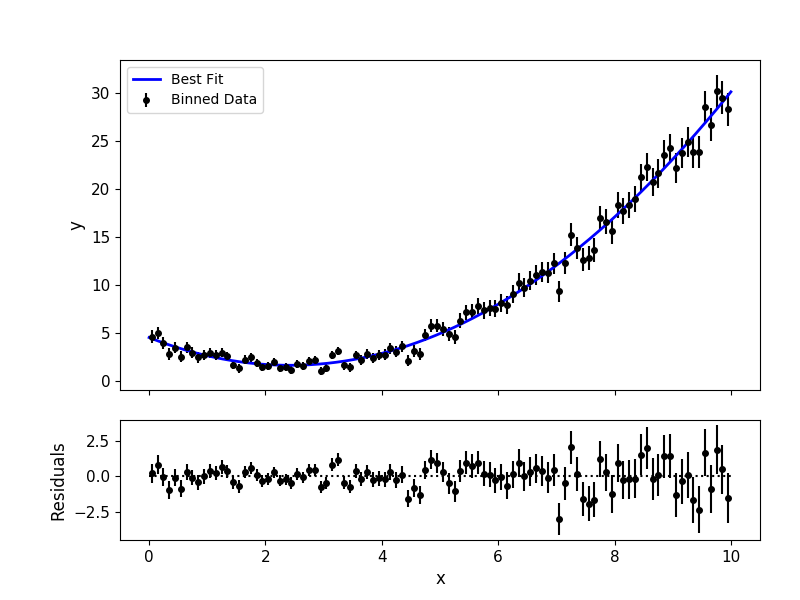
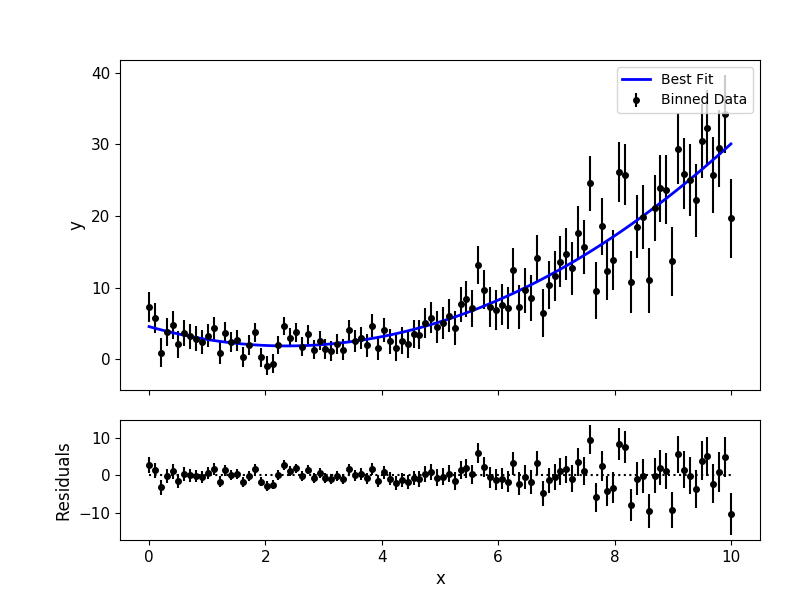
Modified mc3.fit() to clarify that it optimizes the a-posteriori statistics rather than chi-square.  Made it very clear what quantity is being calculated.  Renamed outputs from chisq to best_log_post, and also added its corresponding best_chisq.  Reworded docs accordingly and added examples.

diff --git a/mc3/fit_driver.py b/mc3/fit_driver.py
@@ -13,21 +13,27 @@ from . import utils as mu
 def fit(data, uncert, func, params, indparams=[],
         pstep=None, pmin=None, pmax=None,
         prior=None, priorlow=None, priorup=None, leastsq='lm'):
-  """
-  Find the best fitting params values using the Levenberg-Marquardt
-  algorithm (wrapper of scipy.optimize.leastsq) considering shared and
-  fixed parameters, and parameter Gaussian priors.
+  r"""
+  Find the best-fitting params values to the dataset by performing a
+  Maximum-A-Posteriori optimization.
 
-  This code minimizes the chi-square statistics:
-    chisq = sum_i ((data[i]   - model[i])/uncert[i]     )**2.0 +
-            sum_j ((params[j] - prior[j])/prioruncert[j])**2.0
+  This is achieved by minimizing the negative-log posterior:
+  log_post = -2*log(posterior)
+           = -2*log(likelihood) - 2*log(prior)
+           = chi-squared + log_prior
+           = sum_i ((data[i] - model[i])/uncert[i])**2 + log_prior
+
+  where we define log_prior as the negative-log of the prior
+  (plus a constant, neglected since it does not affect the optimization):
+    For a uniform prior:   log_prior = 0.0
+    For a Gaussian prior:  log_prior = sum ((params - prior)/prior_uncert)**2
 
   Parameters
   ----------
   data: 1D ndarray
-      Dependent data fitted by func.
+      Data fitted by func.
   uncert: 1D ndarray
-      1-sigma uncertainty of data.
+      1-sigma uncertainties of data.
   func: callable
       The fitting function to model the data. It must be callable as:
       model = func(params, *indparams)
@@ -36,25 +42,26 @@ def fit(data, uncert, func, params, indparams=[],
   indparams: tuple
       Additional arguments required by func (if required).
   pstep: 1D ndarray
-      Parameters' jump scale (same size as params).
-      If the pstep is positive, the parameter is free for fitting.
-      If the pstep is 0, keep the parameter value fixed.
-      If the pstep is a negative integer, copy (share) the parameter value
-      from params[np.abs(pstep)+1], which can be free or fixed.
+      Parameters fitting behavior.
+      If pstep is positive, the parameter is free for fitting.
+      If pstep is zero, keep the parameter value fixed.
+      If pstep is a negative integer, copy the value from
+          params[np.abs(pstep)+1].
   pmin: 1D ndarray
-      Model parameters' lower boundaries (same size as params).
-      Default -np.inf.
+      Model parameters' lower boundaries.  Default -np.inf.
+      Only for leastsq='trf', since 'lm' does not handle bounds.
   pmax: 1D ndarray
-      Model parameters' upper boundaries (same size as params).
-      Default +np.inf.
+      Model parameters' upper boundaries.  Default +np.inf.
+      Only for leastsq='trf', since 'lm' does not handle bounds.
   prior: 1D ndarray
-      Model parameters' (Gaussian) prior values (same size as params).
-      Considered only when priolow != 0.  priorlow and priorup are the
-      lower and upper 1-sigma width of the Gaussian prior, respectively.
+      Parameters priors.  The type of prior is determined by priorlow
+      and priorup:
+          Gaussian: if both priorlow>0 and priorup>0
+          Uniform:  else
   priorlow: 1D ndarray
-      Parameters' lower 1-sigma Gaussian prior (same size as params).
+      Parameters' lower 1-sigma Gaussian prior.
   priorup: 1D ndarray
-      Paraneters' upper 1-sigma Gaussian prior (same size as params).
+      Paraneters' upper 1-sigma Gaussian prior.
   leastsq: String
       Optimization algorithm:
       If 'lm': use the Levenberg-Marquardt algorithm
@@ -64,10 +71,49 @@ def fit(data, uncert, func, params, indparams=[],
   -------
   mc3_output: Dict
       A dictionary containing the fit outputs, including:
-      - chisq: Lowest chi-square value found by the optimizer.
-      - bestp: Model parameters for the lowest chi-square value.
-      - best_model: Model evaluated at for bestp.
-      - optimizer_res: The output from the scipy optimizer.
+      - best_log_post: optimal negative-log of the posterior (as defined above).
+      - best_chisq: chi-square for the found best_log_post.
+      - best_model: model evaluated at bestp.
+      - bestp: Model parameters for the optimal best_log_post.
+      - optimizer_res: the output from the scipy optimizer.
+
+  Examples
+  --------
+  >>> import mc3
+  >>> import numpy as np
+
+  >>> def quad(p, x):
+  >>>     '''Quadratic polynomial: y(x) = p0 + p1*x + p2*x^2'''
+  >>>     return p[0] + p[1]*x + p[2]*x**2.0
+
+  >>> # Preamble, create a noisy synthetic dataset:
+  >>> np.random.seed(10)
+  >>> x = np.linspace(0, 10, 100)
+  >>> p_true = [4.5, -2.4, 0.5]
+  >>> y = quad(p_true, x)
+  >>> uncert = np.sqrt(np.abs(y))
+  >>> data = y + np.random.normal(0, uncert)
+
+  >>> # Initial guess for fitting parameters:
+  >>> params = np.array([ 3.0, -2.0,  0.1])
+
+  >>> # Fit data:
+  >>> output = mc3.fit(data, uncert, quad, params, indparams=[x])
+  >>> print(output['bestp'], output['best_chisq'], output['best_log_post'], sep='\n')
+  [ 4.57471072 -2.28357843  0.48341911]
+  92.79923183159411
+  92.79923183159411
+
+  >>> # Fit with priors (Gaussian, uniform, uniform):
+  >>> prior    = np.array([4.0, 0.0, 0.0])
+  >>> priorlow = np.array([0.1, 0.0, 0.0])
+  >>> priorup  = np.array([0.1, 0.0, 0.0])
+  >>> output = mc3.fit(data, uncert, quad, params, indparams=[x],
+          prior=prior, priorlow=priorlow, priorup=priorup)
+  >>> print(output['bestp'], output['best_chisq'], output['best_log_post'], sep='\n')
+  [ 4.01743461 -2.00989433  0.45686521]
+  93.77082119449915
+  93.80121777303248
   """
   with mu.Log() as log:
       if leastsq not in [None, 'lm', 'trf']:
@@ -126,14 +172,17 @@ def fit(data, uncert, func, params, indparams=[],
       params[s] = params[-int(pstep[s])-1]
 
   # Compute best-fit model:
-  bestmodel = func(params, *indparams)
+  best_model = func(params, *indparams)
   # Calculate chi-squared for best-fitting values:
-  chisq = np.sum(resid**2.0)
+  best_log_post = np.sum(resid**2.0)
+  log_prior = ms.log_prior(params[ifree], prior, priorlow, priorup, pstep)
+  best_chisq = best_log_post - log_prior
 
   return {
-      'chisq':chisq,
-      'bestp': params,
-      'best_model':bestmodel,
+      'bestp':params,
+      'best_log_post':best_log_post,
+      'best_chisq':best_chisq,
+      'best_model':best_model,
       'optimizer_res':lsfit,
   }
 
@@ -193,5 +242,5 @@ def residuals(fitparams, params, func, data, uncert, indparams, pstep,
   model = func(params, *indparams)
   # Calculate residuals:
   residuals = ms.residuals(model, data, uncert, params, prior,
-                           priorlow, priorup)
+      priorlow, priorup)
   return residuals

diff --git a/tests/test_fit.py b/tests/test_fit.py
@@ -40,7 +40,8 @@ params   = np.array([10.0, -2.0, 0.1])
 
 def test_fit_minimal():
     output = mc3.fit(data, uncert, quad, np.copy(params), indparams=[x])
-    np.testing.assert_allclose(output['chisq'], 108.86762612441716)
+    np.testing.assert_allclose(output['best_log_post'], 108.86762612441716)
+    np.testing.assert_equal(output['best_log_post'], output['best_chisq'])
     np.testing.assert_allclose(output['bestp'],
         np.array([4.28263253, -2.40781859, 0.49534411]), rtol=1e-7)
 
@@ -48,7 +49,7 @@ def test_fit_minimal():
 def test_fit_trf():
     output = mc3.fit(data, uncert, quad, np.copy(params), indparams=[x],
         leastsq='trf')
-    np.testing.assert_allclose(output['chisq'], 108.86762612441711)
+    np.testing.assert_allclose(output['best_log_post'], 108.86762612441711)
     np.testing.assert_allclose(output['bestp'],
         np.array([4.28263252, -2.40781858, 0.49534411]), rtol=1e-7)
 
@@ -57,7 +58,7 @@ def test_fit_shared():
     output = mc3.fit(data1, uncert1, quad, np.copy(params), indparams=[x],
         pstep=[1.0, -1, 1.0])
     assert output['bestp'][1] == output['bestp'][0]
-    np.testing.assert_allclose(output['chisq'], 102.075334529314)
+    np.testing.assert_allclose(output['best_log_post'], 102.075334529314)
     np.testing.assert_allclose(output['bestp'],
         np.array([4.58657213, 4.58657213, 0.43347714]), rtol=1e-7)
 
@@ -68,7 +69,7 @@ def test_fit_fixed():
     output = mc3.fit(data, uncert, quad, pars, indparams=[x],
         pstep=[0.0, 1.0, 1.0])
     assert output['bestp'][0] == pars[0]
-    np.testing.assert_allclose(output['chisq'], 109.01544543533093)
+    np.testing.assert_allclose(output['best_log_post'], 109.01544543533093)
     np.testing.assert_allclose(output['bestp'],
         np.array([4.5, -2.51456999, 0.50570154]), rtol=1e-7)
 
@@ -76,7 +77,7 @@ def test_fit_fixed():
 def test_fit_bounds():
     output = mc3.fit(data, uncert, quad, [4.5, -2.5, 0.5], indparams=[x],
         pmin=[4.4, -3.0, 0.4], pmax=[5.0, -2.0, 0.6], leastsq='trf')
-    np.testing.assert_allclose(output['chisq'], 108.91072219591624)
+    np.testing.assert_allclose(output['best_log_post'], 108.91072219591624)
     np.testing.assert_allclose(output['bestp'],
         np.array([4.4, -2.46545897, 0.5009366]), rtol=1e-7)
 
@@ -87,7 +88,7 @@ def test_fit_priors():
     priorup  = np.array([ 0.1,  0.0,   0.0])
     output = mc3.fit(data, uncert, quad, np.copy(params), indparams=[x],
         prior=prior, priorlow=priorlow, priorup=priorup)
-    np.testing.assert_allclose(output['chisq'], 109.01096113983222)
+    np.testing.assert_allclose(output['best_log_post'], 109.01096113983222)
     # First parameter is closer to 4.5 than without a prior:
     np.testing.assert_allclose(output['bestp'],
         np.array([4.49340587, -2.51133157, 0.50538734]), rtol=1e-7)

diff --git a/docs/fit_tutorial.rst b/docs/fit_tutorial.rst
@@ -6,11 +6,41 @@ Optimization Tutorial
 This tutorial describes ``MC3``'s optimization function ``mc3.fit()``,
 which provides model-fitting optimization through ``scipy.optimize``'s
 ``leastsq`` (Levenberg-Marquardt) and ``least_squares`` (Trust Region
-Reflective) routines.
+Reflective) routines.  Additionally, the optimization can include
+(two-sided) Gaussian priors, set shared parameters, and fixed
+parameters.  The ``mc3.fit()`` arguments work similarly to those of
+the ``mc3.sample()`` function.
 
-As additional features, one can include (two-sided) Gaussian priors,
-set shared parameters, and fix parameters.  The ``mc3.fit()`` arguments
-work similarly to those of the ``mc3.mcmc()`` function.
+
+This function performs a Maximum-A-Posteriori optimization by
+minimizing ``log_post``, defined as the **negative** log of the
+posterior (plus a constant, neglected since it does not affect the
+optimization):
+
+.. math::
+
+  {\rm log\_post} &= -2\log({\rm posterior}) \\
+  {\rm log\_post} &= -2\log({\rm posterior}) \\
+           &= -2\log({\rm likelihood}) - 2\log({\rm prior}), \\
+
+where the first term is the well known chi-square:
+
+.. math::
+
+  \chi^2 = -2\log({\rm likelihood}) = \sum_i \left(\frac{{\rm data}_i - {\rm model}_i}{{\rm uncert}_i}\right)^2.
+
+For the second term, we define ``log_prior`` as the **negative** log
+of the prior:
+
+.. math::
+  {\rm log\_prior} = -2\log({\rm prior}),
+
+with each Gaussian prior :math:`j` contributing as:
+
+.. math::
+  {\rm log\_prior} = \sum_j \left(\frac{{\rm prior}_j - {\rm params}_j}{{\rm prior\_uncert}_j}\right)^2,
+
+and uniform priors contributing as zero.
 
 
 Basic Fit
@@ -31,8 +61,6 @@ dictionary containing the best-fitting parameters, chi-square, and
 model, and the output from the ``scipy`` optimizer.  See the example
 below:
 
-.. np.random.seed(314)
-
 .. code-block:: python
 
     import numpy as np
@@ -44,27 +72,32 @@ below:
 
     # Preamble (create a synthetic dataset, in a real scenario you would
     # get your dataset from your own data analysis pipeline):
-    x  = np.linspace(0, 10, 1000)
+    np.random.seed(10)
+    x  = np.linspace(0, 10, 100)
     p0 = [4.5, -2.4, 0.5]
     y  = quad(p0, x)
     uncert = np.sqrt(np.abs(y))
     data   = y + np.random.normal(0, uncert)
 
     # Fit the data:
-    output = mc3.fit(data, uncert, quad, [4.5, -2.0, 0.1], indparams=[x])
+    output = mc3.fit(data, uncert, quad, [3.0, -2.0, 0.1], indparams=[x])
 
     print(list(output.keys()))
-    ['chisq', 'bestp', 'best_model', 'optimizer_res']
+    ['bestp', 'best_log_post', 'best_chisq', 'best_model', 'optimizer_res']
+
 
     print(output['bestp'])
-    [ 4.56085134 -2.38922738  0.49434268]
+    [ 4.57471072 -2.28357843  0.48341911]
 
-    print(output['chisq'])
-    1035.0055203471165
+    # log_post and chi-square are the same (no priors):
+    print(output['best_log_post'], output['best_chisq'], sep='\n')
+    92.79923183159411
+    92.79923183159411
 
     # Plot data and best-fitting model:
     mc3.plots.modelfit(data, uncert, x, output['best_model'], nbins=100)
 
+.. plt.savefig('quad_fitting.png')
 .. image:: ./quad_fitting.png
    :width: 75%
 
@@ -146,7 +179,7 @@ value of zero keeps the parameter fixed. For example:
         pstep=[0.0, 1.0, 1.0])
 
     print(output['bestp'])
-    [ 4.5        -2.35925975  0.49142448]
+    [ 4.5        -2.24688721  0.47985918]
 
 A parameter can share the value from another parameter by setting a
 negative ``pstep``, where the value of ``pstep`` is equal to the
@@ -162,11 +195,11 @@ negative index of the parameter to copy from. For example:
     data1 = y1 + np.random.normal(0, uncert1)
 
     # Fit the data, enforcing the second parameter equal to the first one:
-    output = mc3.fit(data1, uncert1, quad, [4.0, 4.0, 0.1], indparams=[x],
+    output = mc3.fit(data1, uncert1, quad, [3.0, -2.0, 0.1], indparams=[x],
         pstep=[1.0, -1.0, 1.0])
 
     print(output['bestp'])
-    [4.56119139 4.56119139 0.48737614]
+    [4.62479069 4.62479069 0.49179051]
 
 .. note:: Consider that in this case, contrary to Python standards,
           the ``pstep`` indexing starts counting from one instead of
@@ -207,11 +240,17 @@ The leading factor is given by :math:`A = 2/(\sqrt{2\pi}(\sigma_{\rm up}+\sigma_
     # (Following on the script above)
     # Fit, imposing a Gaussian prior on the first parameter at 4.5 +/- 0.1,
     # and leaving uniform priors for the rest:
-    prior    = np.array([ 4.5,  0.0,   0.0])
+    prior    = np.array([ 4.0,  0.0,   0.0])
     priorlow = np.array([ 0.1,  0.0,   0.0])
     priorup  = np.array([ 0.1,  0.0,   0.0])
-    output = mc3.fit(data, uncert, quad, [4.5, -2.0, 0.1], indparams=[x],
+    output = mc3.fit(data, uncert, quad, [3.0, -2.0,  0.1], indparams=[x],
         prior=prior, priorlow=priorlow, priorup=priorup)
 
+    # Best-fit solution is dominated by the prior on the first parameter:
     print(output['bestp'])
-    [ 4.51420008 -2.3662529   0.49210546]
+    [ 4.01743461 -2.00989432  0.45686521]
+
+    # log_post and chi-square now differ:
+    print(output['best_log_post'], output['best_chisq'], sep='\n')
+    93.8012177730325
+    93.7708211946111
